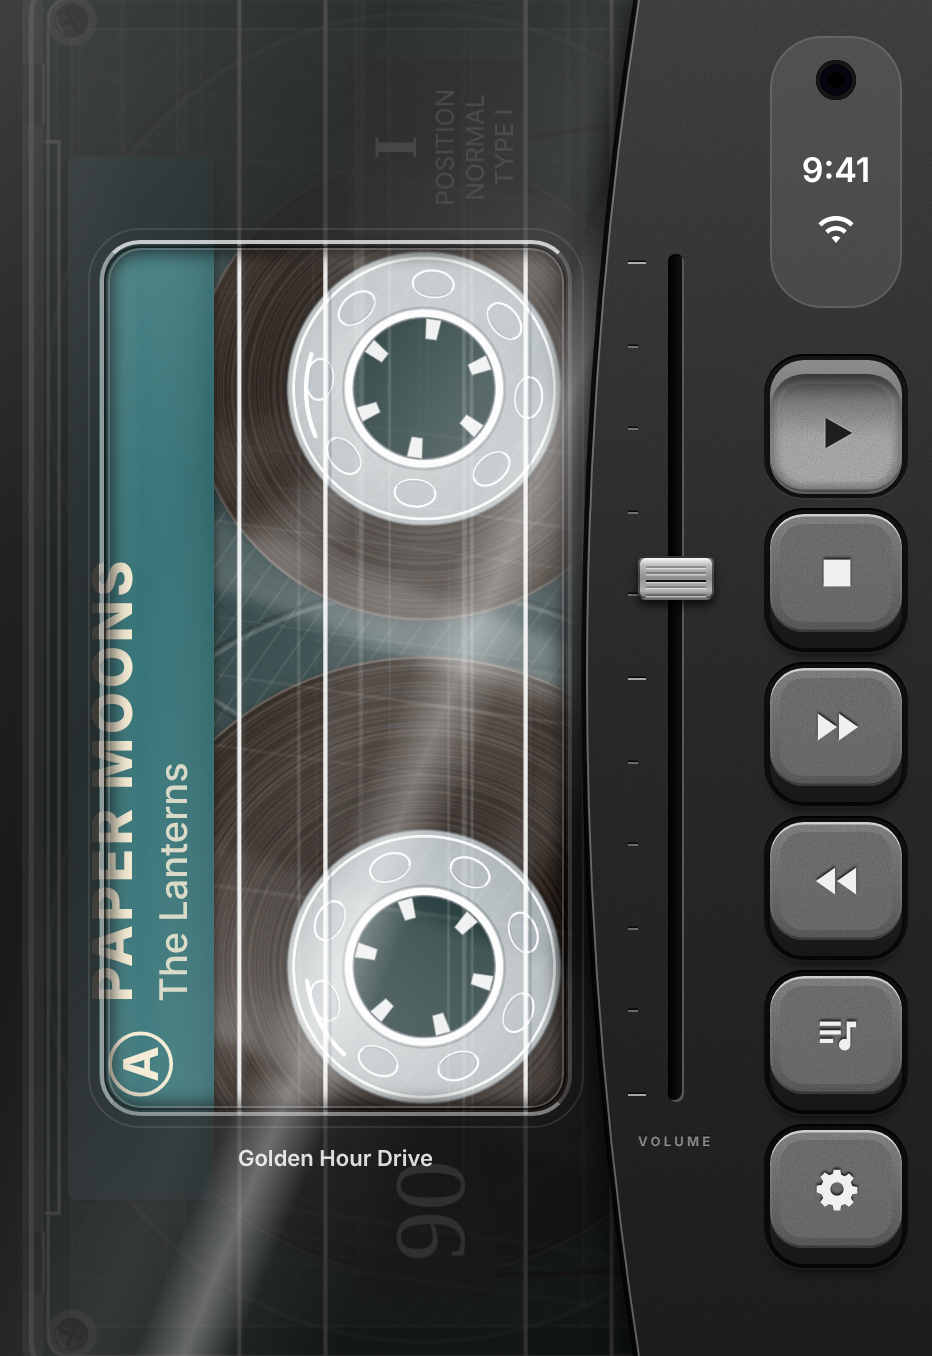
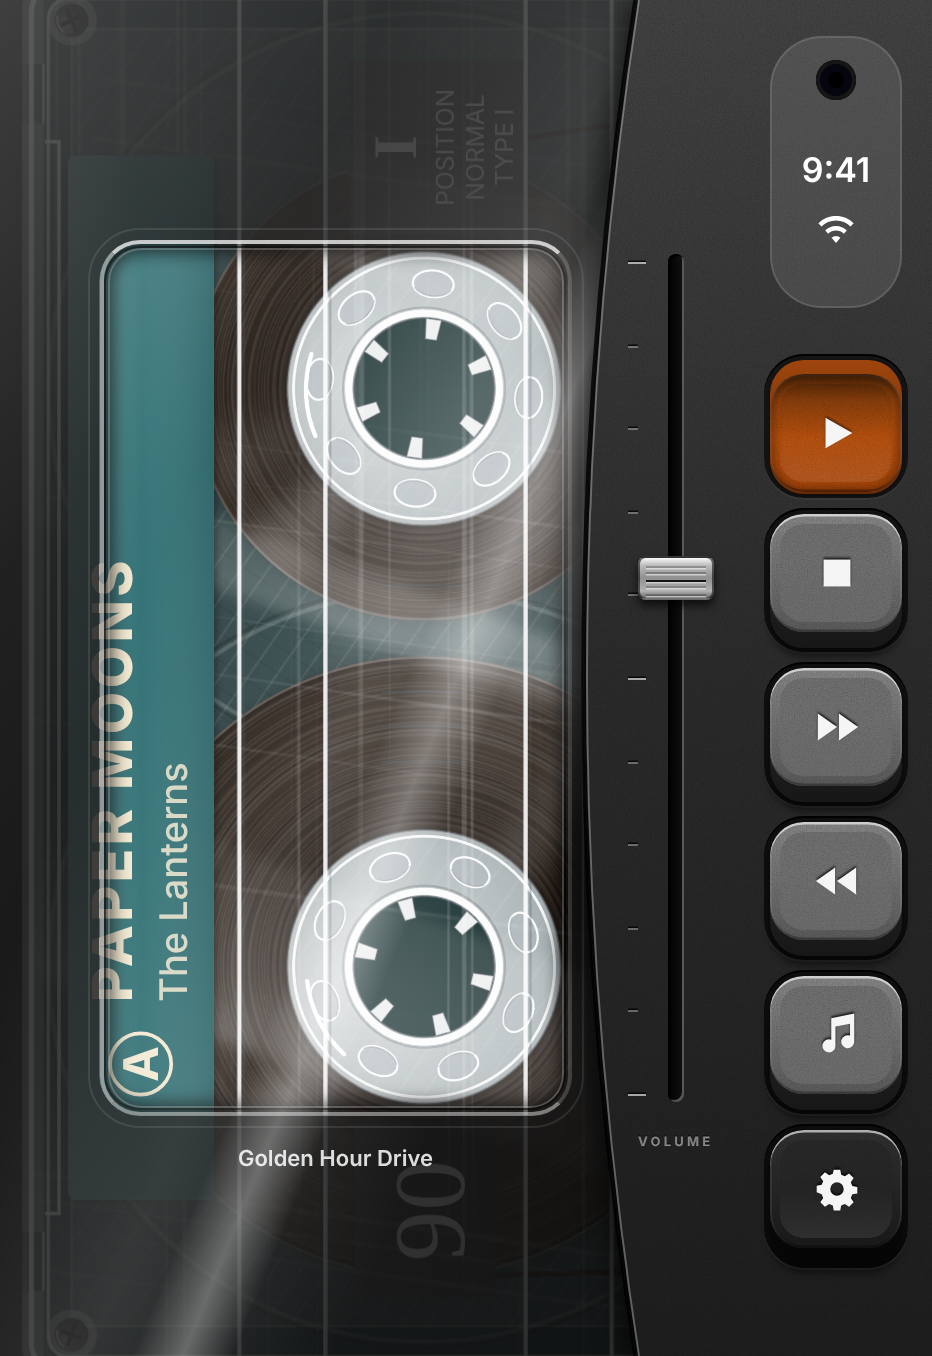
Orange play key, black settings key, music mark on the library key
Claude-Session: https://claude.ai/code/session_015CNmSEpanpmujmbPK8yXHv

Changed region(s): [[0.809, 0.2478, 0.9957, 0.3717], [0.809, 0.8363, 0.9957, 0.9292], [0.8712, 0.7434, 0.9335, 0.7743]]

diff --git a/TapeDeck/DeckView.swift b/TapeDeck/DeckView.swift
@@ -261,7 +261,7 @@ struct DeckView: View {
         VStack(spacing: keyGap) {
             TransportKeys(vertical: true, keyHeight: height, bare: true, big: true,
                           spacing: keyGap, onEject: openShelf)
-            TapeKey(symbol: "gearshape.fill", label: "Settings",
+            TapeKey(symbol: "gearshape.fill", label: "Settings", dark: true,
                     height: height, showsLabel: false, corner: 17, symbolSize: 23,
                     onDown: {
                         Haptics.keyDown()
@@ -431,15 +431,16 @@ struct TransportKeys: View {
                     onUp: { model.seekKeyUp(forward: false) })
             // On the closed phone this key opens the tape library; where it
             // takes the tape out, it is an eject key.
-            TapeKey(symbol: ejectRemovesTape ? "eject.fill" : "music.note.list",
-                    label: ejectRemovesTape ? "EJECT" : "Tape library",
+            // The two-note mark is the one Apple Music itself goes by.
+            TapeKey(symbol: ejectRemovesTape ? "eject.fill" : "music.note",
+                    label: ejectRemovesTape ? "EJECT" : "Apple Music library",
                     height: keyHeight, showsLabel: labels, corner: corner, symbolSize: symbol,
                     onDown: {
                         model.ejectKey(removeTape: ejectRemovesTape)
                         onEject()
                     })
             if let onSettings {
-                TapeKey(symbol: "gearshape.fill", label: "Settings",
+                TapeKey(symbol: "gearshape.fill", label: "Settings", dark: true,
                         height: keyHeight, showsLabel: labels, corner: corner, symbolSize: symbol,
                         onDown: {
                             Haptics.keyDown()
@@ -463,6 +464,8 @@ struct TapeKey: View {
     var symbol: String
     var label: String
     var accent = false
+    /// A black key, for one that should sit apart from the transport keys.
+    var dark = false
     var latched = false
     var height: CGFloat = 62
     var showsLabel = true
@@ -486,9 +489,8 @@ struct TapeKey: View {
         }
         // The symbol is engraved and filled with paint, so it has a thin
         // edge of shadow or light where the cut catches it.
-        .foregroundColor(accent ? Color(white: 0.12) : Color(white: 0.94))
-        .shadow(color: accent ? Color.white.opacity(0.65) : Color.black.opacity(0.75),
-                radius: 0.4, y: accent ? 0.8 : -0.8)
+        .foregroundColor(Color(white: 0.96))
+        .shadow(color: Color.black.opacity(accent ? 0.45 : 0.75), radius: 0.4, y: -0.8)
         .padding(.horizontal, 2)
         .frame(maxWidth: .infinity)
         // The face is shorter than the key, leaving its side showing below.
@@ -500,9 +502,7 @@ struct TapeKey: View {
         .background(
             // The side of the key
             RoundedRectangle(cornerRadius: corner)
-                .fill(LinearGradient(colors: accent ? [Color(white: 0.55), Color(white: 0.36)]
-                                                    : [Color(white: 0.17), Color(white: 0.09)],
-                                     startPoint: .top, endPoint: .bottom))
+                .fill(LinearGradient(colors: wallColors, startPoint: .top, endPoint: .bottom))
                 .shadow(color: .black.opacity(down ? 0.25 : 0.6), radius: down ? 1.5 : 4, y: down ? 1 : 4)
         )
         .background(
@@ -542,14 +542,25 @@ struct TapeKey: View {
         }
     }
 
+    private var wallColors: [Color] {
+        if accent { return [Color(red: 0.62, green: 0.27, blue: 0.05), Color(red: 0.40, green: 0.16, blue: 0.02)] }
+        if dark { return [Color(white: 0.05), Color(white: 0.02)] }
+        return [Color(white: 0.17), Color(white: 0.09)]
+    }
+
     private func keyColors(down: Bool) -> [Color] {
         if accent {
-            // The play key: plain pale plastic, so it stands out without colour
+            // The play key: orange, as on the decks this is modelled on
             return down
-                ? [Color(white: 0.58), Color(white: 0.50)]
-                : [Color(white: 0.92), Color(white: 0.74)]
+                ? [Color(red: 0.66, green: 0.28, blue: 0.05), Color(red: 0.55, green: 0.22, blue: 0.03)]
+                : [Color(red: 0.99, green: 0.56, blue: 0.18), Color(red: 0.88, green: 0.40, blue: 0.08)]
         }
-        // Dark plastic, like the panel the keys sit in
+        if dark {
+            return down
+                ? [Color(white: 0.06), Color(white: 0.03)]
+                : [Color(white: 0.15), Color(white: 0.08)]
+        }
+        // Dark grey plastic, like the panel the keys sit in
         return down
             ? [Color(white: 0.22), Color(white: 0.16)]
             : [Color(white: 0.41), Color(white: 0.28)]

diff --git a/README.md b/README.md
@@ -6,7 +6,7 @@ A cassette player for Apple Music. Your playlists and albums are tapes on a shel
 
 * Plays your Apple Music library and anything from the Apple Music catalogue (MusicKit).
 * Closed phone (or any ordinary phone screen): the whole screen is the body of a tape player with the cassette inside it. The cassette is as large as the screen allows and runs underneath the body and the keys. The smoked casing covers most of it, dimly showing what is underneath, and a clear window over the label and reels shows the tape itself. Colours are neutral throughout: greys, black and off-white. Glare on the body moves only when the phone moves: reflections slide as it tilts left and right, and a hot spot follows both tilts.
-* Built for the iPhone Duo's outer display, 466 x 678 points. iOS reserves an 84 point column down one side for the camera, clock and status icons; six large keys (play, stop, fast forward, rewind, tape library, settings) sit in that column underneath them, on a solid plastic panel that is not see-through. Play and stop are a latching pair: pressing one in lets the other out. Stop holds the tape where it is. On other phones the keys get their own strip. The panel, keys and fader are drawn as moulded parts: grained plastic, keys that stand proud of wells cut into the panel and sink when pressed, engraved symbols, and a metal fader cap in a recessed slot. The solid panel's inner edge is a shallow curve that comes closest to the tape window at mid height. A vertical volume fader stands on the panel beside the keys, exactly as tall as the window. Settings has switches for the tape deck sounds and the haptics. It sets the phone's volume and follows the side buttons.
+* Built for the iPhone Duo's outer display, 466 x 678 points. iOS reserves an 84 point column down one side for the camera, clock and status icons; six large keys (play, stop, fast forward, rewind, tape library, settings) sit in that column underneath them, on a solid plastic panel that is not see-through. Play and stop are a latching pair: pressing one in lets the other out. Stop holds the tape where it is. Play is orange, settings is black, and the library key carries the two-note music mark. On other phones the keys get their own strip. The panel, keys and fader are drawn as moulded parts: grained plastic, keys that stand proud of wells cut into the panel and sink when pressed, engraved symbols, and a metal fader cap in a recessed slot. The solid panel's inner edge is a shallow curve that comes closest to the tape window at mid height. A vertical volume fader stands on the panel beside the keys, exactly as tall as the window. Settings has switches for the tape deck sounds and the haptics. It sets the phone's volume and follows the side buttons.
 * Haptics: a firm tap when a key goes down, a lighter one when it springs back, a heavy thud for the cassette door, and a soft pulse four times a second while the tape winds.
 * The cassette is a clear one, built in layers. At the back is the inside of the shell: the slip sheet, the wells the reels turn in, the steel shield and the pressure pad's spring. On that sit the reels of wound tape, drawn turn upon turn, with clear hubs and the tape running down to the rollers. Over them is the see-through front: bright moulded edges and ridges, stickers, a label strip, guide rollers, black screws, hairline scratches and reflections. The artwork source is `tools/cassette-art.html`; `node tools/render-art.js` re-renders it.
 * Open phone (a large, wide screen): the tape shelf on the left and the chosen tape on the right. The shelf shows each playlist and album as a cassette spine: an off-white card with the name handwritten on it and a grey band. Pick a tape, then close the phone to start it playing. The same keys as on the closed phone are there in a row (play, stop, fast forward, rewind, eject, settings), for screens that cannot fold.
